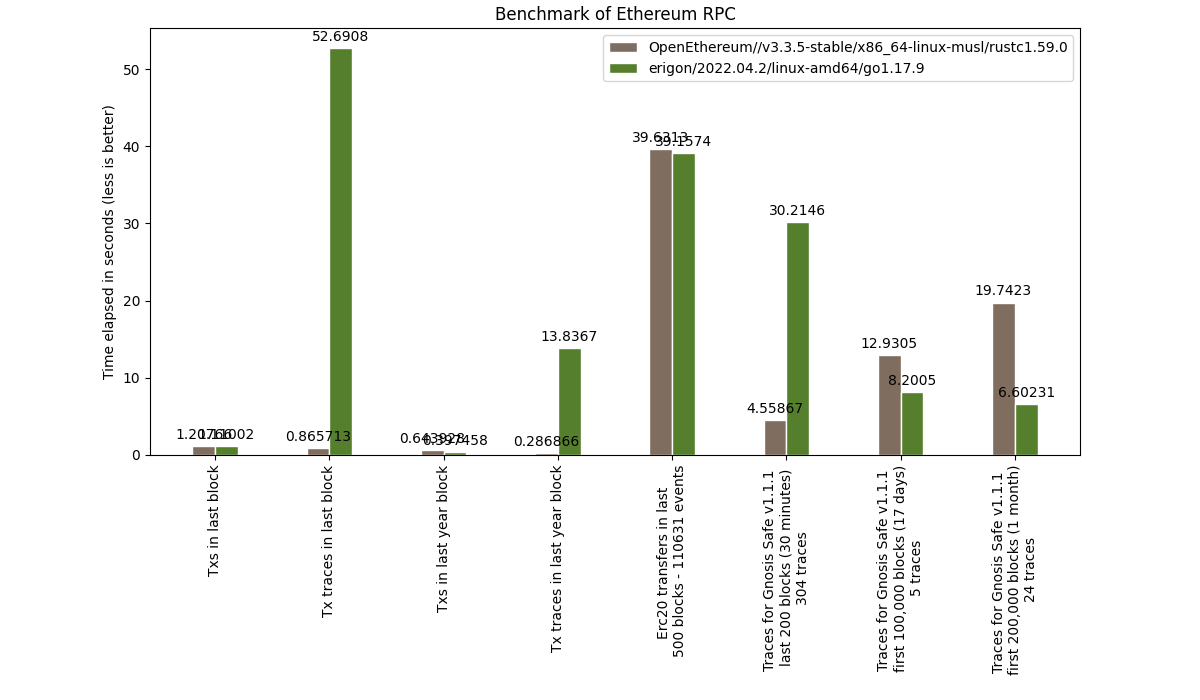
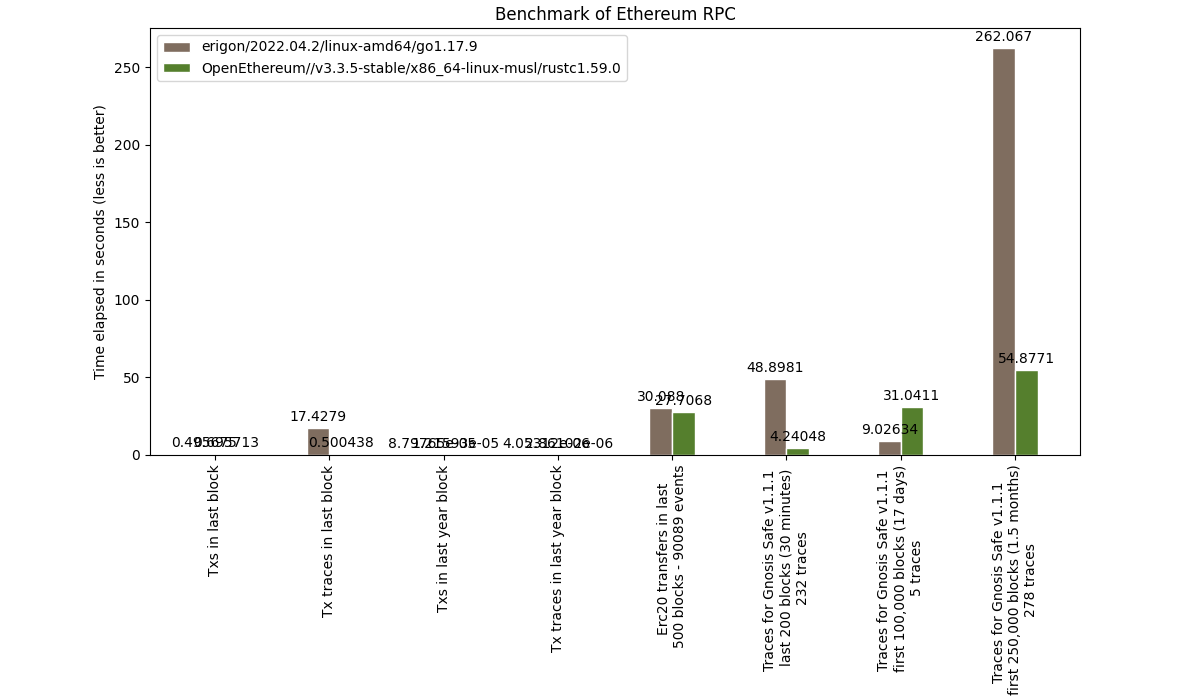
Improve benchmarks

diff --git a/benchmark_nodes.py b/benchmark_nodes.py
@@ -173,7 +173,7 @@ def perform_benchmark():
             )
 
         with node_timer.get_timer(
-            "Traces for Gnosis Safe v1.1.1 \nfirst 200,000 blocks (1 month)\n24 traces"
+            "Traces for Gnosis Safe v1.1.1 \nfirst 250,000 blocks (1.5 months)\n278 traces"
         ) as timer:
             # 0x34CfAC646f301356fAa8B21e94227e3583Fe3F5F was deployed on 9084503
             from_block = 9084503
@@ -181,7 +181,7 @@ def perform_benchmark():
                 len(
                     ethereum_client.parity.trace_filter(
                         from_block=from_block,
-                        to_block=from_block + 200_000,
+                        to_block=from_block + 250_000,
                         to_address=["0x34CfAC646f301356fAa8B21e94227e3583Fe3F5F"],
                     )
                 )
